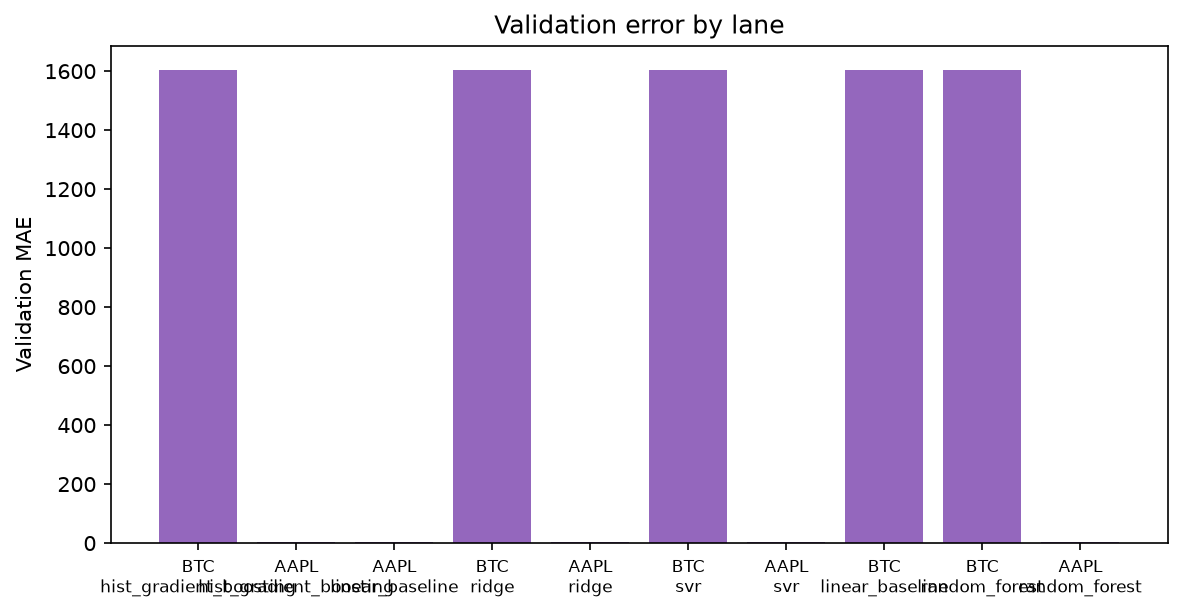
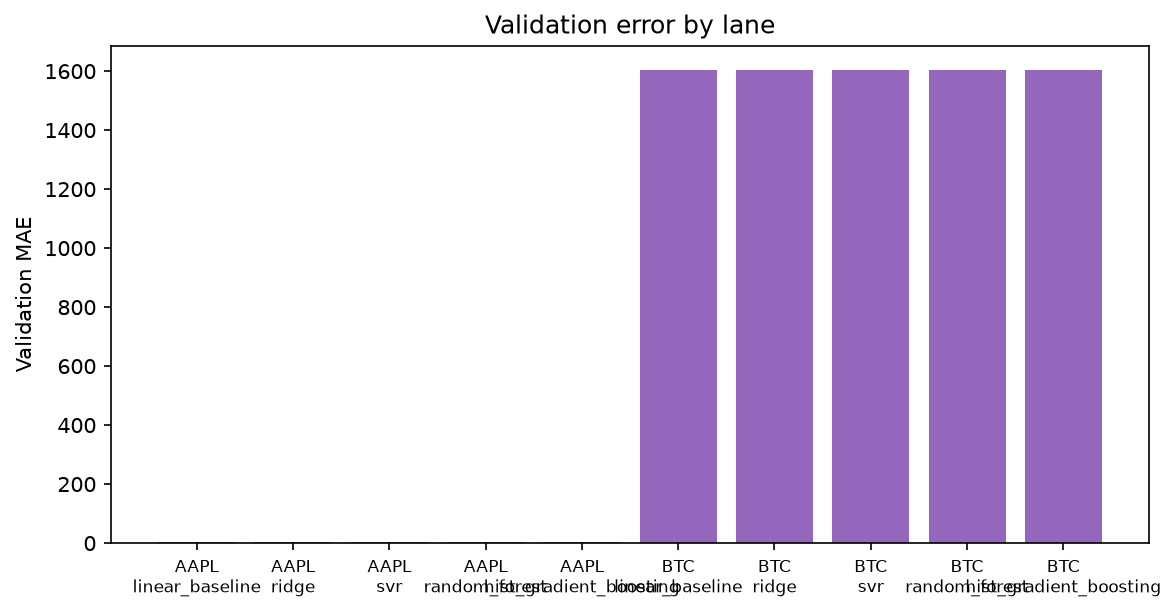
Make figure generation order-independent
plot_train_vs_validation iterated artifacts/experiments with iterdir(), whose
order is filesystem-dependent, so fig05 and its caption's run-id list changed
between otherwise identical builds --- which broke the byte-reproducible claim
for the report build even though fig05 is not embedded in either document.

Now sorted. Verified: two consecutive report builds produce the identical
sha256 7fd13fe1..., and so does the deck at ce8e32e8...

diff --git a/scripts/build_latex_assets.py b/scripts/build_latex_assets.py
@@ -400,9 +400,11 @@ def write_figures(protocol) -> list[Path]:
     produced.append(figures.plot_model_vs_naive(registry, figure_root=FIGURES))
     produced.append(figures.plot_ablation_delta(registry, figure_root=FIGURES))
 
-    run_dirs = [
+    # Sorted: iterdir() order is filesystem-dependent, which made this figure
+    # (and its caption's run-id list) change between otherwise identical builds.
+    run_dirs = sorted(
         d for d in (REPO_ROOT / "artifacts" / "experiments").iterdir() if d.is_dir()
-    ]
+    )
     produced.append(figures.plot_train_vs_validation(run_dirs, figure_root=FIGURES))
 
     target = registry[
